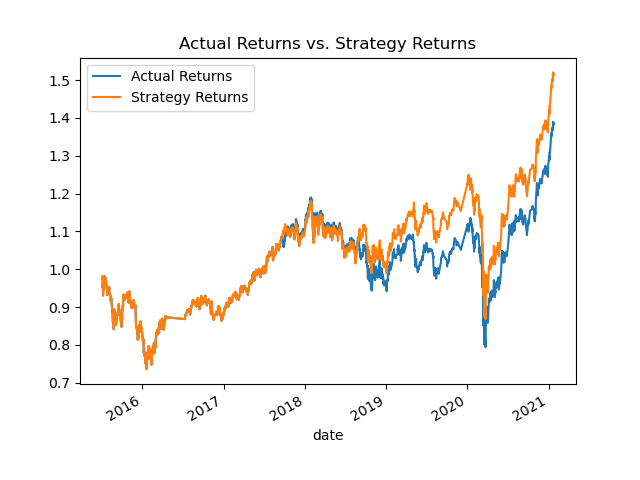
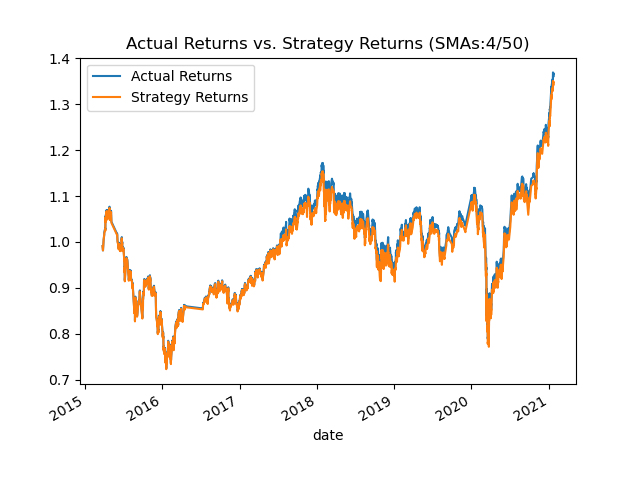
uploading plots

diff --git a/README.md b/README.md
@@ -6,7 +6,20 @@
 2. trained and made predictions based on test data
 3. compared actual returns vs. predicted returns 
 
-![Actual Returns vs. Strategy Returns](https://raw.githubusercontent.com/halamkim/challenge_14/main/plot.png)
+![Actual Returns vs. Strategy Returns](https://raw.githubusercontent.com/halamkim/challenge_14/main/baseline%20plot.png)
 
-Conclusion: From 2015-about late 2017, there isn't a noticeable difference between the two. From late 2017 to mid 2018, actual returns performed slightly better than strategy returns. However, from then, the strategy returns greatly surpass the actual returns.
- 
+**Conclusion**: From 2015 - about late 2017, there isn't a noticeable difference between the two. From late 2017 to mid 2018, actual returns performed slightly better than strategy returns. However, from then, the strategy returns greatly surpass the actual returns.
+
+## Changing the training data period to be 6 months 
+![Actual Returns vs. Strategy Returns(6 months of training)](https://raw.githubusercontent.com/halamkim/challenge_14/main/6month%20training%20data%20plot.png) 
+
+**Conclusion**: From 2015 - mid 2018, both returns seem to be pretty similar. From mid 2018 to the beginning of 2020, strategy performs worse by quite a bit (approximately 10-15%). From the beginning of 2020, the strategy returns exceed the actual returns continuously. 
+
+## Changing the training data period to 1 month
+![Actual Returns vs. Strategy Returns (1 month of training)](https://raw.githubusercontent.com/halamkim/challenge_14/main/1%20month%20training%20data%20plot.png)
+
+**Conclusion**: The stategy returns are always performing better given any date. 
+
+
+### **Impact of different training data periods:** 
+Using this dataset, starting from the same start date and adjusting the training data period had a significant difference in the results of Actual Returns vs. Strategy Returns. The best strategy return data was from the shortest training data period of 1 month where it outperformed the actual returns throughout. The longer the training data period, the worse the data performed especially between 2019 and 2020. 
